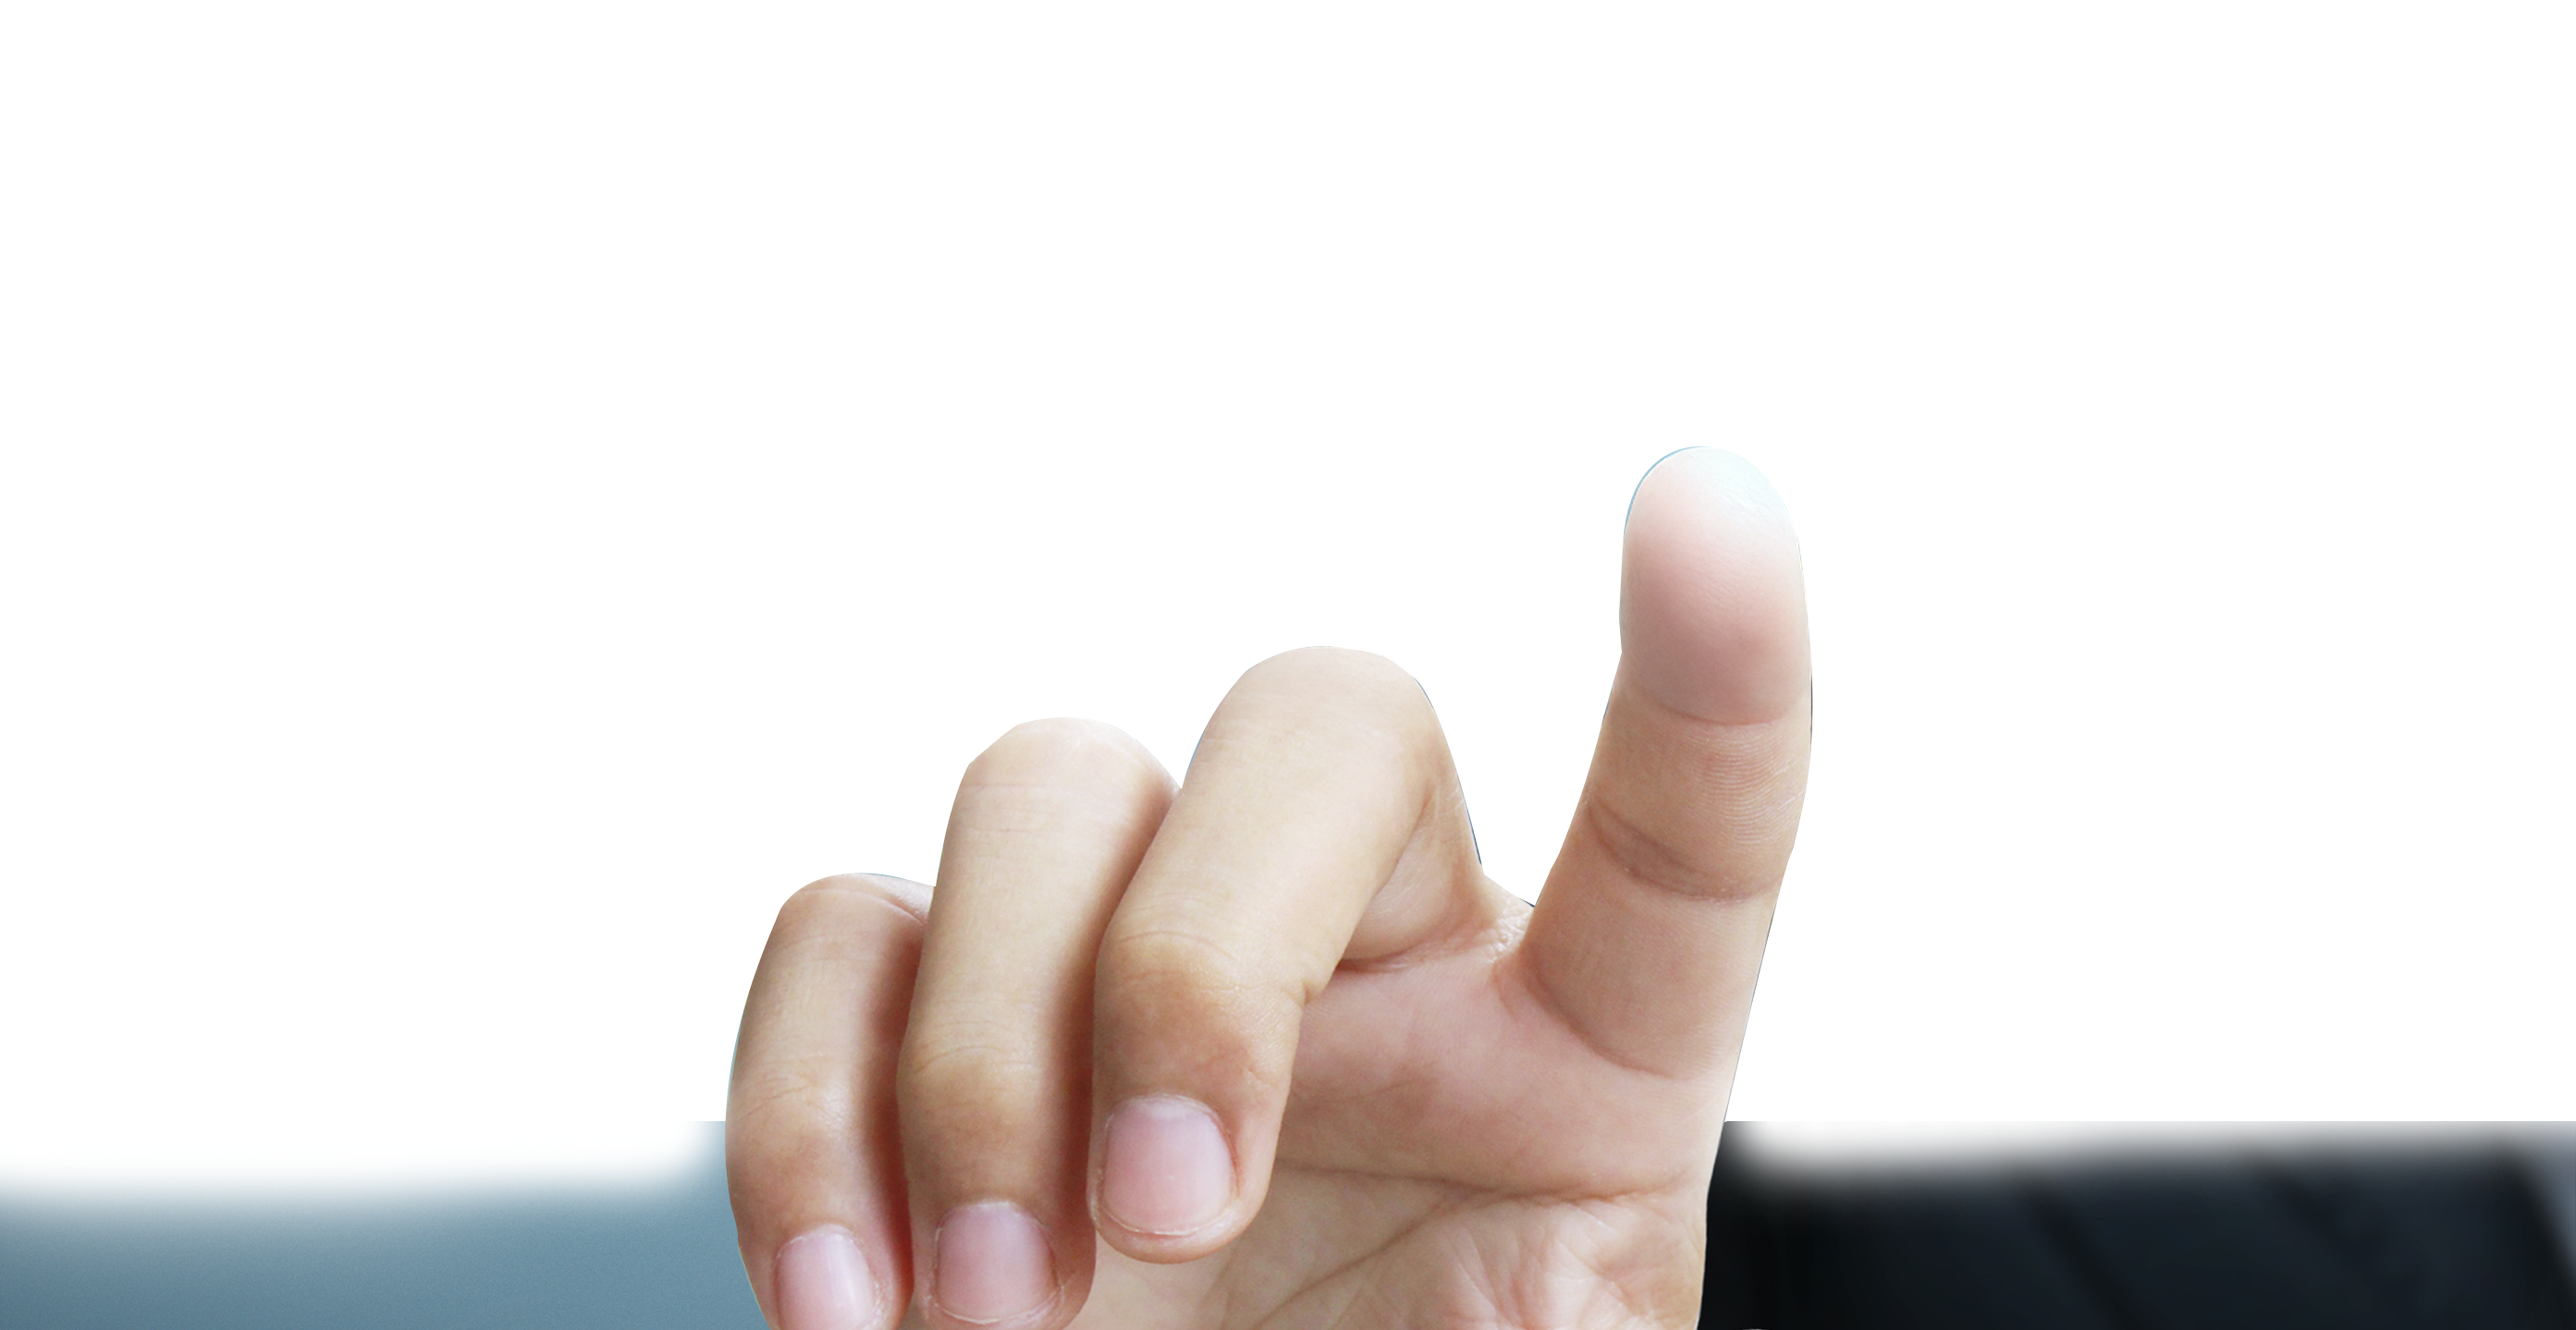
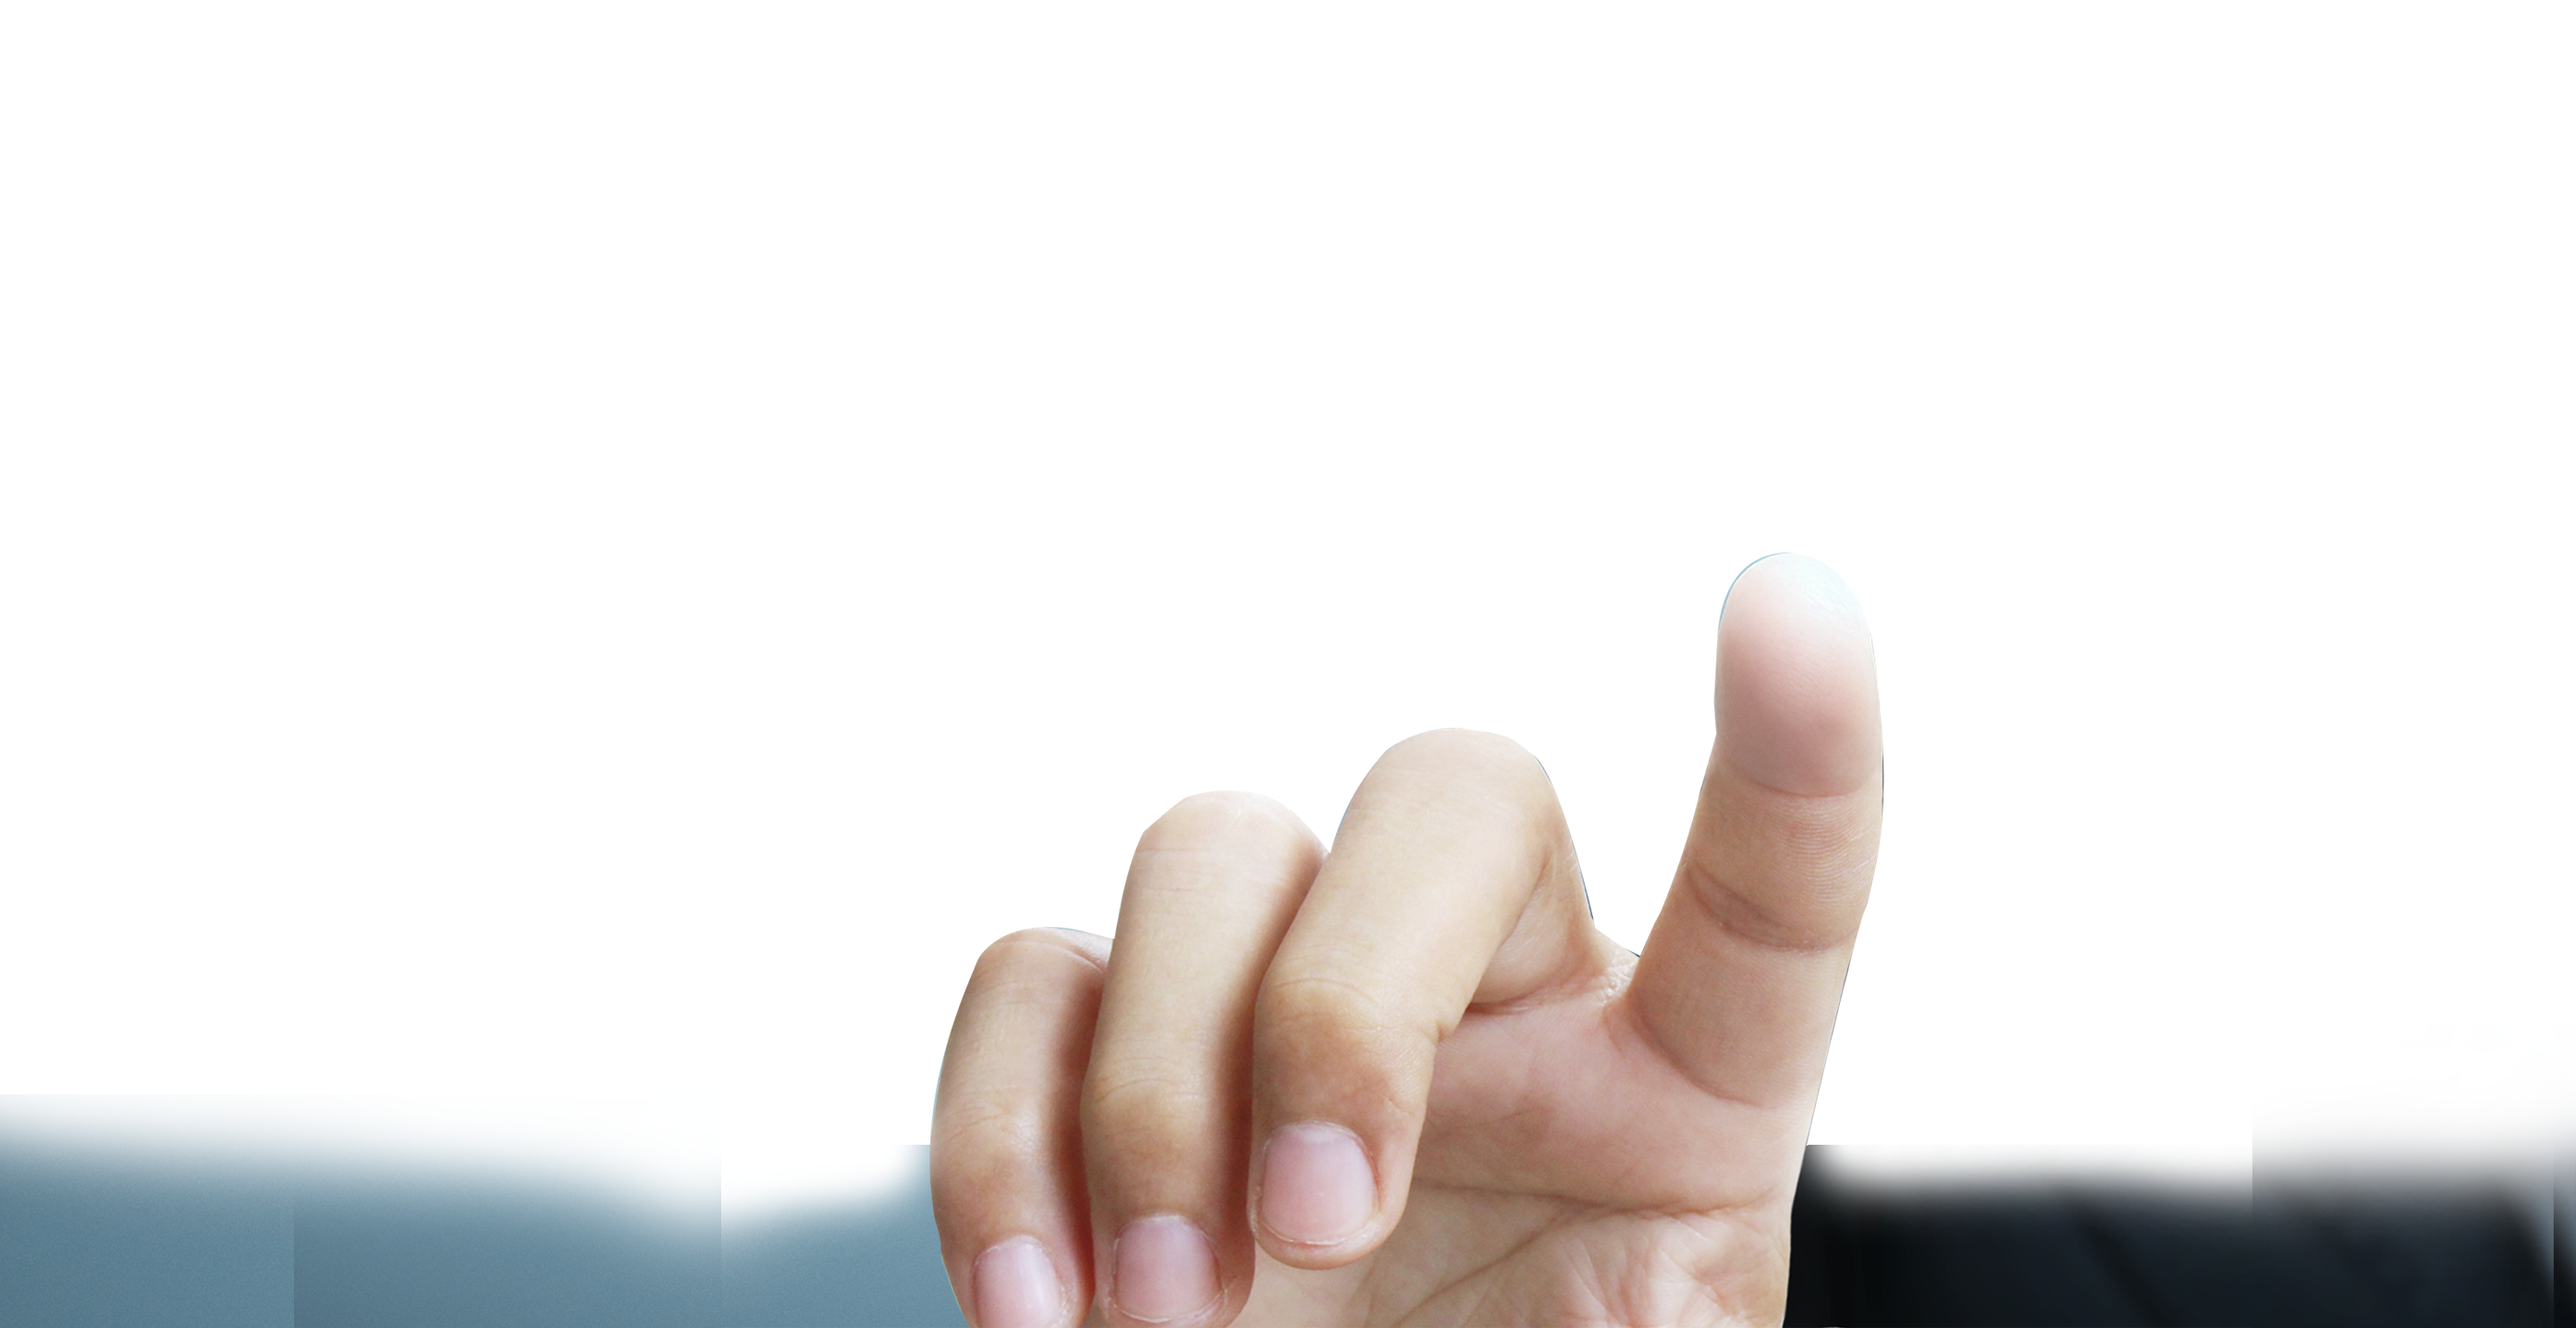
updated hero files on apec link page

Changed region(s): [[0.0, 0.3368, 1.0, 1.0]]

diff --git a/src/app/services/link/sections/hero.tsx b/src/app/services/link/sections/hero.tsx
@@ -42,10 +42,10 @@ const Hero: React.FC = () => {
   const { imageIndex } = useBackgroundIndex();
 
   const backgroundImages = [
-     "/backgrounds/services/link/Hero_Link_1.png",
-     "/backgrounds/services/link/Hero_Link_2.png",
-    // "/backgrounds/services/link/Hero_Link_3.png",
-    // "/backgrounds/services/link/Hero_Link_4.png",
+    "/backgrounds/services/link/Hero_Link_1.png",
+    "/backgrounds/services/link/Hero_Link_2.png",
+    "/backgrounds/services/link/Hero_Link_3.png",
+    "/backgrounds/services/link/Hero_Link_4.png",
   ];
 
   const selectedBg = imageIndex !== null ? imageIndex : 0;

diff --git a/src/app/services/link/ClientLayoutWrapper.tsx b/src/app/services/link/ClientLayoutWrapper.tsx
@@ -8,8 +8,8 @@ export default function ClientLayoutWrapper({ children }: { children: React.Reac
   const backgroundImages = [
      "/backgrounds/services/link/Background_Link_1.jpg",
      "/backgrounds/services/link/Background_Link_2.jpg",
-    // "/backgrounds/services/link/Background_Link_3.jpg",
-    // "/backgrounds/services/link/Background_Link_4.jpg",
+     "/backgrounds/services/link/Background_Link_3.jpg",
+     "/backgrounds/services/link/Background_Link_4.jpg",
   ];
 
   const backgroundUrl = imageIndex !== null ? backgroundImages[imageIndex] : backgroundImages[0];
